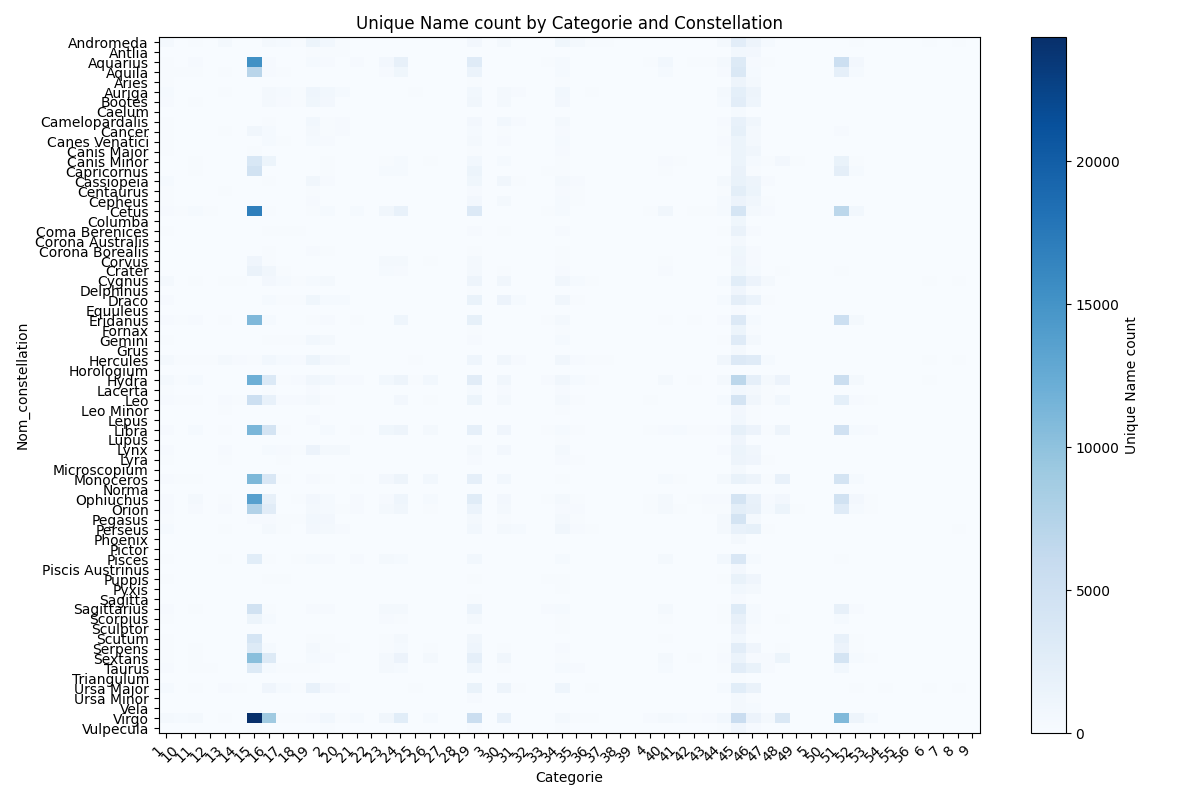
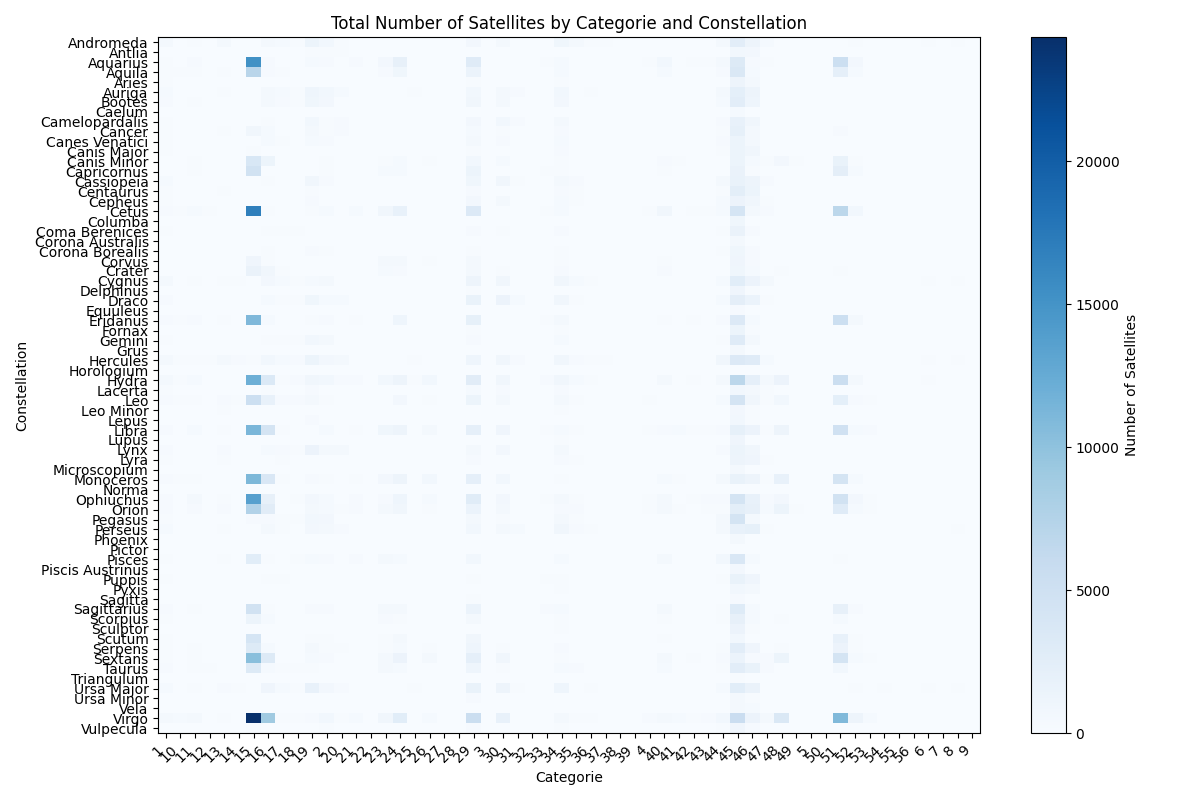
update graphs

diff --git a/main.py b/main.py
@@ -61,11 +61,11 @@ pivot_table = heatmap_data.pivot(index='Nom_constellation', columns='categorie',
 
 # Plot heatmap
 plt.figure(figsize=(12, 8))
-plt.title('Unique Name count by Categorie and Constellation')
+plt.title('Total Number of Satellites by Categorie and Constellation')
 plt.xlabel('Categorie')
-plt.ylabel('Nom_constellation')
+plt.ylabel('Constellation')
 plt.imshow(pivot_table, aspect='auto', cmap="Blues")
-plt.colorbar(label='Unique Name count')
+plt.colorbar(label='Number of Satellites')
 plt.xticks(ticks=np.arange(len(pivot_table.columns)), labels=pivot_table.columns, rotation=45, ha='right')
 plt.yticks(ticks=np.arange(len(pivot_table.index)), labels=pivot_table.index)
 plt.tight_layout()
@@ -172,6 +172,106 @@ plt.legend(title='Name', bbox_to_anchor=(1.05, 1), loc='upper left')
 plt.tight_layout()
 plt.savefig('output/time_vs_DEC_top10_names.png')
 plt.show()
+
+# Plot DEC vs RA for top 10 Names
+plt.figure(figsize=(10, 8))
+for name in top10_names:
+    subset = data_df[data_df['Name'] == name]
+    plt.plot(subset['RA_en_J2000(°)'], subset['DEC_en_J2000(°)'], marker='o', linestyle='-', label=name)
+plt.xlabel('RA_en_J2000(°)')
+plt.ylabel('DEC_en_J2000(°)')
+plt.title('DEC vs RA for Top 10 Names')
+plt.legend(title='Name', bbox_to_anchor=(1.05, 1), loc='upper left')
+plt.tight_layout()
+plt.savefig('output/DEC_vs_RA_top10_names.png')
+plt.show()
+
+# Boxplots for top 3 constellations: x=categorie, y=number of satellites (count) per time point
+constellation_counts = data_df['Nom_constellation'].value_counts().head(3)
+top3_constellations = constellation_counts.index.tolist()
+
+for constellation in top3_constellations:
+    subset = data_df[data_df['Nom_constellation'] == constellation]
+    boxplot_data = subset.groupby(['categorie', 'time(s)'])['Name'].count().reset_index()
+    print(f"Boxplot data for constellation {constellation}:")
+    print(boxplot_data.head())
+    plt.figure(figsize=(12, 7))
+    sns.boxplot(data=boxplot_data, x='categorie', y='Name')
+    plt.xlabel('Categorie')
+    plt.ylabel('Number of Satellites (per time point, total count)')
+    plt.title(f'Distribution of Number of Satellites per Categorie\nConstellation: {constellation}')
+    plt.xticks(rotation=45, ha='right')
+    plt.tight_layout()
+    safe_constellation = str(constellation).replace('/', '_').replace(' ', '_')
+    plt.savefig(f'output/boxplot_satellites_by_categorie_for_constellation_{safe_constellation}.png')
+    plt.show()
+
+# For each of the top 3 constellations, plot time vs RA, time vs DEC, and DEC vs RA for top 10 Names in that constellation
+for constellation in top3_constellations:
+    subset = data_df[data_df['Nom_constellation'] == constellation]
+    name_counts = subset['Name'].value_counts().head(10)
+    top10_names = name_counts.index.tolist()
+
+    # Time vs RA
+    plt.figure(figsize=(14, 8))
+    for name in top10_names:
+        name_subset = subset[subset['Name'] == name]
+        plt.plot(name_subset['time(s)'], name_subset['RA_en_J2000(°)'], marker='o', linestyle='-', label=name)
+    plt.xlabel('Time (s)')
+    plt.ylabel('RA_en_J2000(°)')
+    plt.title(f'Time vs RA for Top 10 Names\nConstellation: {constellation}')
+    plt.legend(title='Name', bbox_to_anchor=(1.05, 1), loc='upper left')
+    plt.tight_layout()
+    safe_constellation = str(constellation).replace('/', '_').replace(' ', '_')
+    plt.savefig(f'output/time_vs_RA_top10_names_{safe_constellation}.png')
+    plt.show()
+
+    # Time vs DEC
+    plt.figure(figsize=(14, 8))
+    for name in top10_names:
+        name_subset = subset[subset['Name'] == name]
+        plt.plot(name_subset['time(s)'], name_subset['DEC_en_J2000(°)'], marker='o', linestyle='-', label=name)
+    plt.xlabel('Time (s)')
+    plt.ylabel('DEC_en_J2000(°)')
+    plt.title(f'Time vs DEC for Top 10 Names\nConstellation: {constellation}')
+    plt.legend(title='Name', bbox_to_anchor=(1.05, 1), loc='upper left')
+    plt.tight_layout()
+    plt.savefig(f'output/time_vs_DEC_top10_names_{safe_constellation}.png')
+    plt.show()
+
+    # DEC vs RA
+    plt.figure(figsize=(10, 8))
+    for name in top10_names:
+        name_subset = subset[subset['Name'] == name]
+        plt.plot(name_subset['RA_en_J2000(°)'], name_subset['DEC_en_J2000(°)'], marker='o', linestyle='-', label=name)
+    plt.xlabel('RA_en_J2000(°)')
+    plt.ylabel('DEC_en_J2000(°)')
+    plt.title(f'DEC vs RA for Top 10 Names\nConstellation: {constellation}')
+    plt.legend(title='Name', bbox_to_anchor=(1.05, 1), loc='upper left')
+    plt.tight_layout()
+    plt.savefig(f'output/DEC_vs_RA_top10_names_{safe_constellation}.png')
+    plt.show()
+
+# For each of the top 3 constellations, plot number of satellites over time for top 10 categories
+for constellation in top3_constellations:
+    subset = data_df[data_df['Nom_constellation'] == constellation]
+    category_counts = subset.groupby('categorie')['Name'].count().sort_values(ascending=False)
+    top_categories = category_counts.index[:10]
+
+    plt.figure(figsize=(12, 8))
+    for categorie, group in subset.groupby('categorie'):
+        if categorie not in top_categories:
+            continue
+        satellites_over_time = group.groupby('time(s)')['Name'].count().sort_index()
+        plt.plot(satellites_over_time.index, satellites_over_time.values, label=categorie)
+    plt.xlabel('Time (s)')
+    plt.ylabel('Number of Satellites')
+    plt.title(f'Number of Satellites Over Time for Top 10 Categories\nConstellation: {constellation}')
+    plt.legend(title='Categorie', bbox_to_anchor=(1.05, 1), loc='upper left')
+    plt.tight_layout()
+    safe_constellation = str(constellation).replace('/', '_').replace(' ', '_')
+    plt.savefig(f'output/satellites_over_time_by_top10_categories_{safe_constellation}.png')
+    plt.show()
 
 
 
